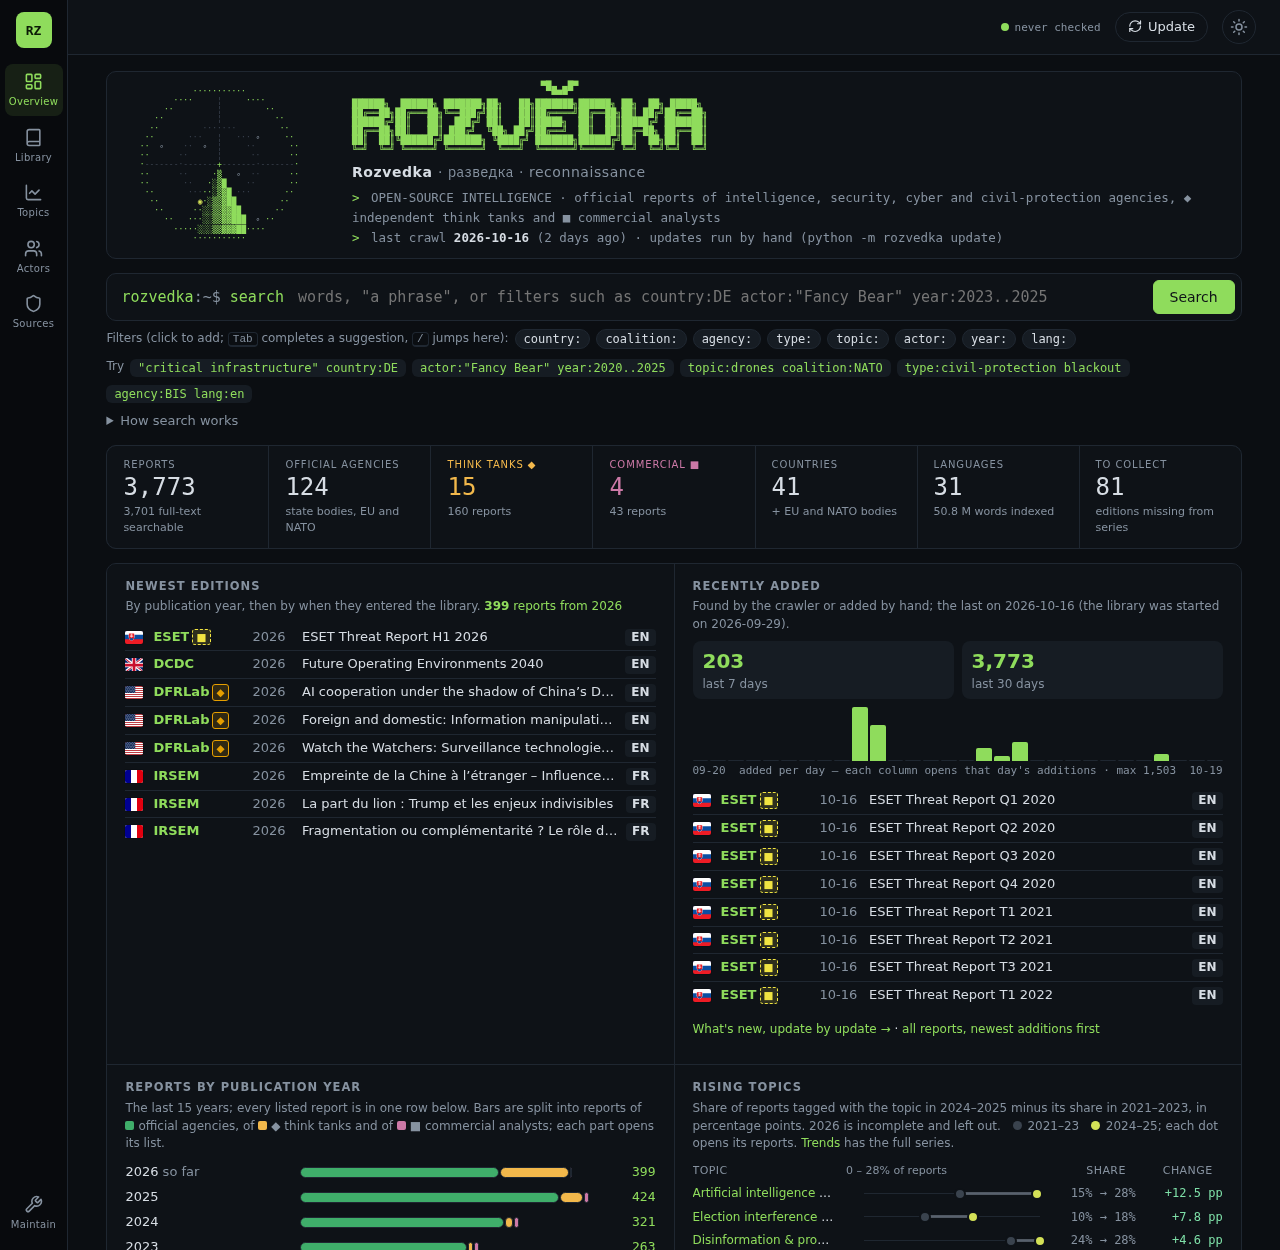
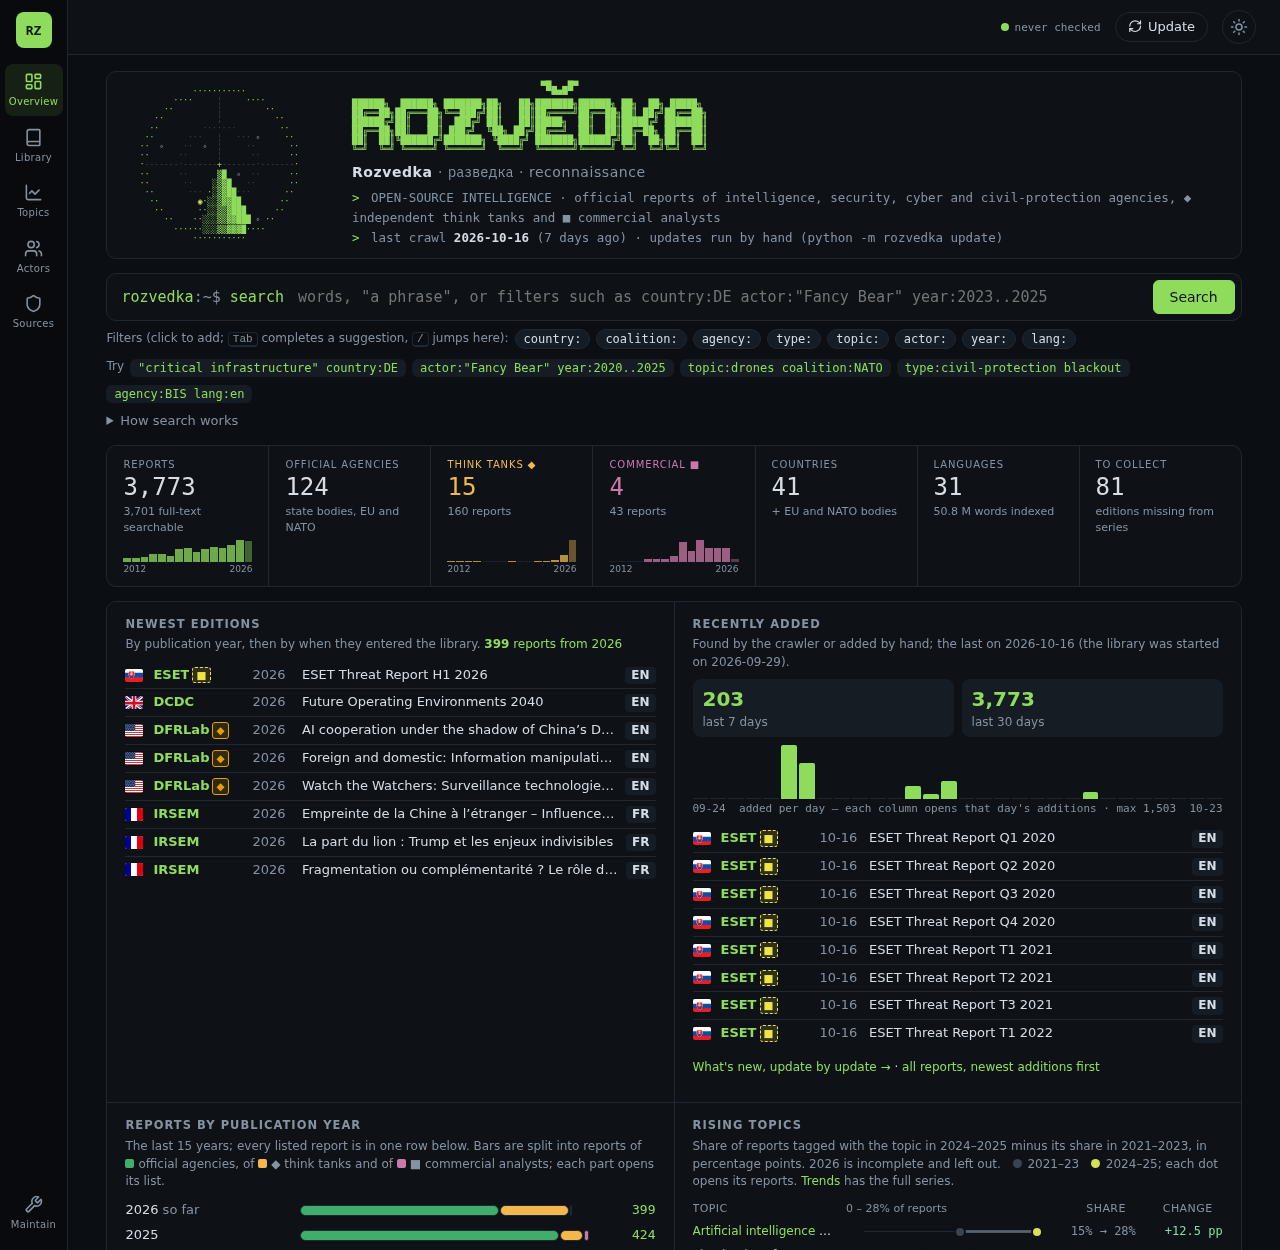
feat: sparklines of reports per year in the overview's key numbers, every bar its list (0.92.0)

Changed region(s): [[0.0938, 0.4368, 0.9688, 1.0], [0.0938, 0.8424, 0.5, 1.0], [0.1562, 0.1248, 0.1875, 0.1872]]

diff --git a/rozvedka/templates/home.html b/rozvedka/templates/home.html
@@ -2,6 +2,7 @@
 {% block title %}Rozvedka – open-source intelligence library{% endblock %}
 {% block head %}<script src="{{ asset('home.js') }}" defer></script>{% endblock %}
 {% block body_class %}home{% endblock %}
+{% macro spark(years, n, url, what) %}{% set top = (years|map(attribute=n)|max) or 1 %}<div class="kpi-spark" role="img" aria-label="{{ what }} by publication year, {{ years[-1].year }}–{{ years[0].year }}">{% for y in years|reverse %}<a href="{{ y[url] }}" style="--h: {{ (100 * y[n] / top)|round|int }}%" class="{{ 'zero' if not y[n] }}{{ ' part' if y.partial }}" title="{{ y.year }}{{ ' so far' if y.partial }}: {{ y[n] }} {{ what }}"></a>{% endfor %}<i>{{ years[-1].year }}</i><i>{{ years[0].year }}</i></div>{% endmacro %}
 {% macro doc_row(r, when) %}
   <li><img class="flag-sm" src="{{ flag_url(r.country) }}" alt="{{ r.country }}" width="20" height="15">
     <span class="h-srcw"><a class="h-src" href="/documents?source={{ r.source_id }}">{{ r.agency }}</a>{{ pub_mark(r.source_id, compact=True) }}</span>
@@ -68,10 +69,10 @@
 </section>
 
 <section class="kpis" aria-label="The library in numbers">
-  <a href="{{ d.totals.reports.url }}"><span>Reports</span><b>{{ d.totals.reports.n|num }}</b><em>{{ d.totals.searchable.n|num }} full-text searchable</em></a>
+  <div class="kpi-box"><a href="{{ d.totals.reports.url }}"><span>Reports</span><b>{{ d.totals.reports.n|num }}</b><em>{{ d.totals.searchable.n|num }} full-text searchable</em></a>{{ spark(d.years, 'n', 'url', 'reports') }}</div>
   <a href="{{ d.totals.agencies.url }}"><span>Official agencies</span><b>{{ d.totals.agencies.n|num }}</b><em>state bodies, EU and NATO</em></a>
-  {% if d.totals.think_tanks.n %}<a class="kpi-ind" href="{{ d.totals.think_tanks.reports_url }}" title="Independent publishers – not run by states"><span>Think tanks ◆</span><b>{{ d.totals.think_tanks.n }}</b><em>{{ d.totals.think_tanks.reports|num }} reports</em></a>{% endif %}
-  {% if d.totals.commercial.n %}<a class="kpi-com" href="{{ d.totals.commercial.reports_url }}" title="Commercial analysts – companies selling analysis to clients, not run by states"><span>Commercial ■</span><b>{{ d.totals.commercial.n }}</b><em>{{ d.totals.commercial.reports|num }} reports</em></a>{% endif %}
+  {% if d.totals.think_tanks.n %}<div class="kpi-box kpi-ind"><a href="{{ d.totals.think_tanks.reports_url }}" title="Independent publishers – not run by states"><span>Think tanks ◆</span><b>{{ d.totals.think_tanks.n }}</b><em>{{ d.totals.think_tanks.reports|num }} reports</em></a>{{ spark(d.years, 'n_ind', 'url_ind', 'think-tank reports') }}</div>{% endif %}
+  {% if d.totals.commercial.n %}<div class="kpi-box kpi-com"><a href="{{ d.totals.commercial.reports_url }}" title="Commercial analysts – companies selling analysis to clients, not run by states"><span>Commercial ■</span><b>{{ d.totals.commercial.n }}</b><em>{{ d.totals.commercial.reports|num }} reports</em></a>{{ spark(d.years, 'n_com', 'url_com', 'commercial reports') }}</div>{% endif %}
   <a href="{{ d.totals.countries.url }}"><span>Countries</span><b>{{ d.totals.countries.n|num }}</b><em>+ EU and NATO bodies</em></a>
   <a href="{{ d.totals.searchable.url }}"><span>Languages</span><b>{{ d.totals.languages.n }}</b><em>{{ (d.totals.searchable.words / 1e6)|round(1) }} M words indexed</em></a>
   <a href="/collect"><span>To collect</span><b>{{ d.collect.missing }}</b><em>editions missing from series</em></a>

diff --git a/rozvedka/static/style.css b/rozvedka/static/style.css
@@ -1223,6 +1223,19 @@ body.home .h-search { margin-bottom: 14px; }
 .kpis b { font: 500 24px/1.15 var(--mono); color: var(--ink); }
 .kpis em { font-style: normal; font-size: 11px; color: var(--muted); }
 .kpis .kpi-ind span, .kpis .kpi-ind b { color: var(--indep); }
+/* a tile with a sparkline: the tile's link, then one link per publication year (reports of that year) */
+.kpis .kpi-box { display: flex; flex-direction: column; background: var(--panel); }
+.kpis .kpi-box > a:first-child { padding-bottom: 4px; flex: 1; }
+.kpi-spark { display: grid; grid-template-columns: repeat(15, 1fr); align-items: end; gap: 1px; height: 22px; margin: 0 16px 10px;
+             position: relative; grid-template-rows: 22px auto; row-gap: 1px; height: auto; }
+.kpis .kpi-spark a { display: block; padding: 0; height: var(--h); min-height: 1px; background: var(--accent); opacity: .75; align-self: end; }
+.kpis .kpi-spark a:hover { opacity: 1; background: var(--accent); }
+.kpis .kpi-spark a.zero { background: var(--line); }
+.kpis .kpi-spark a.part { opacity: .4; }
+.kpis .kpi-ind .kpi-spark a:not(.zero) { background: var(--indep); }
+.kpis .kpi-com .kpi-spark a:not(.zero) { background: var(--com); }
+.kpi-spark i { font-style: normal; font-size: 9px; color: var(--muted); grid-row: 2; }
+.kpi-spark i:first-of-type { grid-column: 1 / 8; } .kpi-spark i:last-of-type { grid-column: 9 / 16; text-align: right; }
 .h-grid { gap: 1px; background: var(--line); border: 1px solid var(--line); border-radius: 10px; overflow: hidden;
           grid-template-columns: repeat(auto-fit, minmax(min(100%, 420px), 1fr)); }
 .h-grid .h-card { border: 0; border-radius: 0; margin: 0; padding: 14px 18px; }

diff --git a/tests/test_home.py b/tests/test_home.py
@@ -117,6 +117,11 @@ def test_pages_and_redirects(library):
     r = client.get("/search", params={"q": "agency:BIS"})
     assert r.status_code == 200 and "is the name of 2 agencies" in r.text and "country%3ACZ%20agency%3ABIS" in r.text
     assert total(client, "/documents?undated=1") == 1
+    # the report tile's sparkline: one bar per year of the publication-year chart, each linking to that year's list
+    d = home.dashboard()
+    spark = client.get("/").text.split('class="kpi-spark"', 1)[1].split("</div>", 1)[0]
+    assert spark.count("<a ") == len(d["years"]) == 15
+    assert all(f'href="{y["url"]}"' in spark.replace("&amp;", "&") for y in d["years"])
     assert client.get("/api/suggest", params={"q": "cz"}).json()["groups"][0]["items"][0]["flag"].endswith("cz.svg")
 
 

diff --git a/rozvedka/__init__.py b/rozvedka/__init__.py
@@ -5,7 +5,7 @@ from pathlib import Path
 
 # Single source of the release version (Semantic Versioning, https://semver.org).
 # Do not edit by hand: run `python3 tools/bump_version.py patch|minor|major` (see CHANGELOG.md, "Versioning").
-__version__ = "0.91.0"
+__version__ = "0.92.0"
 
 
 @lru_cache(maxsize=1)

diff --git a/docs/ROADMAP.md b/docs/ROADMAP.md
@@ -161,7 +161,8 @@ combined timeline · C4 ✅ (0.58.1) the other pages in the panel style.
    tokens** – agency-type, credibility, regime and rating-ramp colours, outlines and shading are CSS tokens for both themes; the three
    maps read them and redraw when the theme is switched, so pins match their legend and the light theme no longer shows dark-theme
    outlines and no-data fills. A test keeps hex colours out of the map scripts. · patch
-5. **Overview dashboard** – sparkline tiles instead of the 30/90-day tiles, official/think-tank stacked years, dumbbell for rising topics. · minor
+5. ✅ **Overview dashboard** – the daily columns of the last 30 days, the years split by publisher kind and the dumbbell for rising
+   topics came earlier; 0.92.0 adds sparklines of reports per year to the report, think-tank and analyst tiles, every bar its list. · minor
 6. ✅ (0.59.0) **Topic matrix** – a reference column of all reports and an over-emphasis (lift) mode. · minor
 7. → H1 **Annotated actor timeline** – dated events and the country grid on one year axis; covered by the timeline of events (H1). · minor
 8. ✅ (0.60.0) **Threat-level small multiples** – one step chart per state on its own scale. · minor
@@ -284,7 +285,7 @@ Updated 2026-10-21, after H (all of it built by 0.81.0) and F3 + F4 (0.82.1):
 1. **G7 → G8 → G9** – finish the network plan the owner approved: views (rings ✅ 0.83.0, matrix ✅ 0.84.0; the network as
    of a year waits for more dated links), the shared case file ✅ 0.85.0, then company registries and leaks (GLEIF, UK Companies House, ICIJ).
 2. ✅ **F12** – topic and country briefing pages (0.88.0).
-3. **F5** – overview sparklines (F9 ✅ 0.90.0, F10 ✅ 0.91.0, F11 ✅ 0.89.0).
+3. ✅ **F5, F9, F10, F11** – overview sparklines (0.92.0), citation matrix (0.90.0), ATT&CK grid and CVE lag (0.91.0), coverage grid (0.89.0).
 4. **A3–A5, D2–D7** – more sources (no new code); A5 needs the owner to collect the blocked flagships by hand.
 
 Done from the earlier list: E1 (0.48.0, off by the owner's decision), A1 + A2 (0.29.1), B1 (0.46.1), B2 / B3 (0.32–0.33),

diff --git a/CHANGELOG.md b/CHANGELOG.md
@@ -27,6 +27,15 @@ From 0.9.1 on, the significance of a change decides which part of `MAJOR.MINOR.P
 
 ## [Unreleased]
 
+## [0.92.0] – 2026-10-23
+
+### Added
+- **Sparklines in the overview's key numbers.** The Reports, Think tanks ◆ and Commercial ■ tiles show their reports by
+  publication year over the last 15 years, in the colour of their kind (the current year paler, as it is not over). Each bar
+  opens that year's list – the same counts as the publication-year chart below, which `tools/check_links.py` already checks.
+  This completes roadmap F5: the daily columns, the years split by publisher kind and the dumbbell of rising topics were
+  built earlier.
+
 ## [0.91.0] – 2026-10-23
 
 ### Added
@@ -1758,7 +1767,8 @@ From 0.9.1 on, the significance of a change decides which part of `MAJOR.MINOR.P
 - Crawler, polite downloader (robots.txt, per-host delay, PDF check, de-duplication) and FastAPI web portal.
 - systemd user units for the portal and a weekly update timer.
 
-[Unreleased]: https://github.com/iiogurt/Rozvedka/compare/v0.91.0...HEAD
+[Unreleased]: https://github.com/iiogurt/Rozvedka/compare/v0.92.0...HEAD
+[0.92.0]: https://github.com/iiogurt/Rozvedka/compare/v0.91.0...v0.92.0
 [0.91.0]: https://github.com/iiogurt/Rozvedka/compare/v0.90.0...v0.91.0
 [0.90.0]: https://github.com/iiogurt/Rozvedka/compare/v0.89.5...v0.90.0
 [0.89.5]: https://github.com/iiogurt/Rozvedka/compare/v0.89.4...v0.89.5

diff --git a/README.md b/README.md
@@ -66,6 +66,8 @@ The start page (`/`): an ASCII radar and word mark, one search box for the whole
   <kbd>Tab</kbd> puts the suggestion into the query as a filter, <kbd>/</kbd> jumps to the box. Recent searches
   are remembered in your browser only.
 - **Key numbers** – a strip under the search: reports, official agencies, ◆ think tanks, ■ commercial analysts, countries, languages and editions to collect.
+  The report, think-tank and analyst tiles carry a sparkline of their reports by publication year over the last 15 years
+  (the current year paler, as it is not over); each bar opens that year's list.
 - **Dashboards** – one grid of panels: newest editions; reports added lately, with a column for each of the last 30 days (a column opens
   that day's additions); reports per publication year, each bar split into official agencies, ◆ think tanks and ■ commercial analysts (every
   report in one row, undated ones included); rising topics as a dumbbell – each topic's share in the earlier and the
